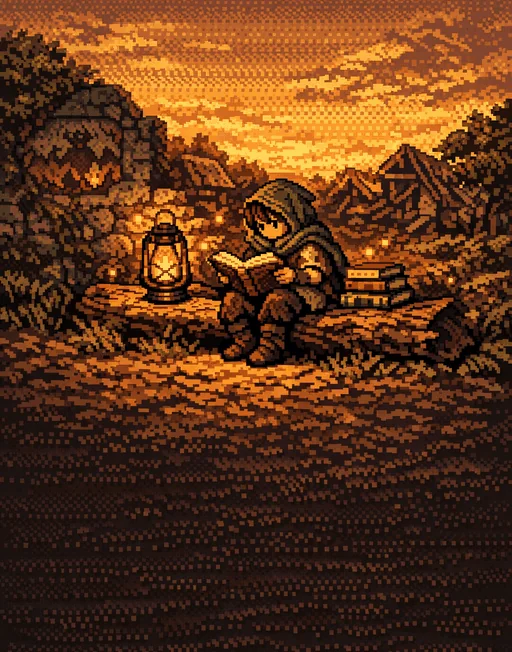
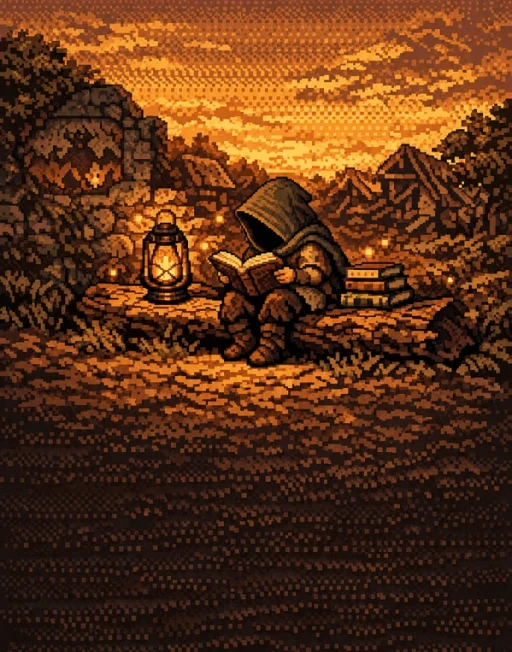
Hide Hood face in book-reading artwork

diff --git a/src/art_thumbs.js b/src/art_thumbs.js
@@ -5,7 +5,7 @@
 const ART_THUMBS = {
[7 lines of base64/hex data omitted]
@@ -147,7 +147,7 @@ const ART_THUMBS = {
 const ART_TONES = {
   barehand_tree: '#995820',
   barehand_work: '#8a5321',
-  book_read: '#8f5323',
+  book_read: '#8a4d1e',
   booth_apothecary_intro: '#4e3423',
   booth_apothecary_used: '#38220e',
   booth_chapel_intro: '#473328',
@@ -300,9 +300,9 @@ const ART_CUTS = {
[1 lines of base64/hex data omitted]
   ],
   book_read: [
[6 lines of base64/hex data omitted]
   ],
   booth_apothecary_intro: [
[1 lines of base64/hex data omitted]

diff --git a/tools/gen_story_art.js b/tools/gen_story_art.js
@@ -339,7 +339,7 @@ const PIECES = {
     'A stout stone frontier fort, its heavy timber gates swinging open for the first time in years, ' +
     'dust falling, a quartermaster in boiled leather stepping out with a relic-laden rack behind him.', 'claws'),
   book_read: scene(
-    'A young survivor sits on a fallen log reading a worn leather book by lantern light at dusk, a small stack of books beside them, fireflies drifting. Quiet learning.', 'mural'),
+    'A young survivor sits on a fallen log reading a worn leather book by lantern light at dusk, a small stack of books beside them, fireflies drifting. The raised brown hood projects forward, hiding the entire face and hair in opaque dark shadow: no visible skin, eyes, nose, mouth or chin inside the hood, even in lantern light. Quiet learning.', 'mural'),
   // A message bottle on the waterline (interactables.js INTERACTABLES.bottle):
   // its Book page is read under this painting.
   bottle_read: scene(
